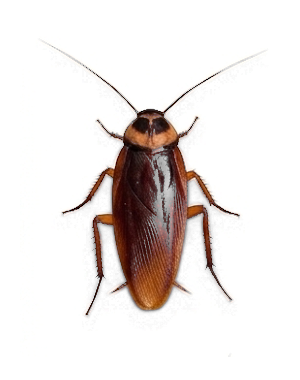
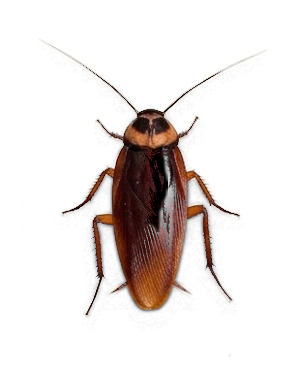
Add files via upload

Changed region(s): [[0.48, 0.3763, 0.57, 0.6079]]

diff --git a/index.html b/index.html
@@ -186,14 +186,9 @@ const PICKUP_RADIUS = 110;
    the earlier "triple the FOV" sizing (previously 150*18=2700). */
 const FOV_WORLD_WIDTH = 2700;
 
-/* Hero shadow — same pixelated-particle rendering style as the rat mist,
-   but dark/opaque and anchored in a static puddle under the body instead
-   of spraying outward. Many small, tightly-packed particles (rather than
-   few large sparse ones) so it reads as a solid shadow shape instead of
-   a scattered halo of blocks. */
-const SHADOW_PARTICLE_COUNT = 110;
-const SHADOW_COLOR = '#040404';
-const SHADOW_ALPHA = 0.8;
+/* Hero shadow — baked directly into the hero_walk sprite frames (matching
+   what the user painted onto a reference frame), rather than rendered as a
+   separate procedural layer. */
 
 /* Areas — approximate rectangular zoning of the 10000x10000 floor map,
    derived from the original photo-collage layout. id 7 spans two rects.
@@ -348,29 +343,12 @@ function resetGame(){
     moving:false,
     weapon: 'stone',
     animFrame: 0,
-    animTimer: 0,
-    shadowParticles: []
+    animTimer: 0
   };
   bricks = [];
   enemies = [];
   score = 0;
   areaStates = {};
-
-  // Generate a static pixelated shadow "puddle" under the hero — an ellipse
-  // of dark squares, offset slightly below body center to read as a shadow
-  // cast from directly overhead.
-  hero.shadowParticles = [];
-  for (let i=0;i<SHADOW_PARTICLE_COUNT;i++){
-    const ang = Math.random()*Math.PI*2;
-    const r = Math.sqrt(Math.random());
-    const ex = Math.cos(ang) * r * HERO_SIZE*0.15;
-    const ey = Math.sin(ang) * r * HERO_SIZE*0.10 + HERO_SIZE*0.17;
-    hero.shadowParticles.push({
-      dx: ex, dy: ey,
-      size: randRange(9,15),
-      phase: Math.random()*Math.PI*2
-    });
-  }
 
   rats = RAT_POSITIONS.map(([x,y])=>({
     x, y,
@@ -851,22 +829,7 @@ function render(){
     ctx.restore();
   }
 
-  // hero shadow — dark pixelated puddle, drawn first so hero sits on top
-  const prevSmoothing2 = ctx.imageSmoothingEnabled;
-  ctx.imageSmoothingEnabled = false;
-  for (const sp of hero.shadowParticles){
-    const wx = hero.x + sp.dx, wy = hero.y + sp.dy;
-    const sp2 = worldToScreen(wx, wy);
-    const pulse = 1 + 0.06*Math.sin(now()/260 + sp.phase);
-    const psize = Math.max(2, sp.size*zoom*pulse);
-    ctx.globalAlpha = SHADOW_ALPHA;
-    ctx.fillStyle = SHADOW_COLOR;
-    ctx.fillRect(Math.round(sp2.x-psize/2), Math.round(sp2.y-psize/2), Math.ceil(psize), Math.ceil(psize));
-  }
-  ctx.globalAlpha = 1;
-  ctx.imageSmoothingEnabled = prevSmoothing2;
-
-  // hero (cockroach walk-cycle)
+  // hero (cockroach walk-cycle — shadow is baked into the sprite frames)
   const heroAngle = Math.atan2(hero.facing.y, hero.facing.x) * 180/Math.PI + 90;
   const bob = hero.moving ? 0 : Math.sin(now()/500)*1.5*zoom*0.3;
   const hp = worldToScreen(hero.x, hero.y);
